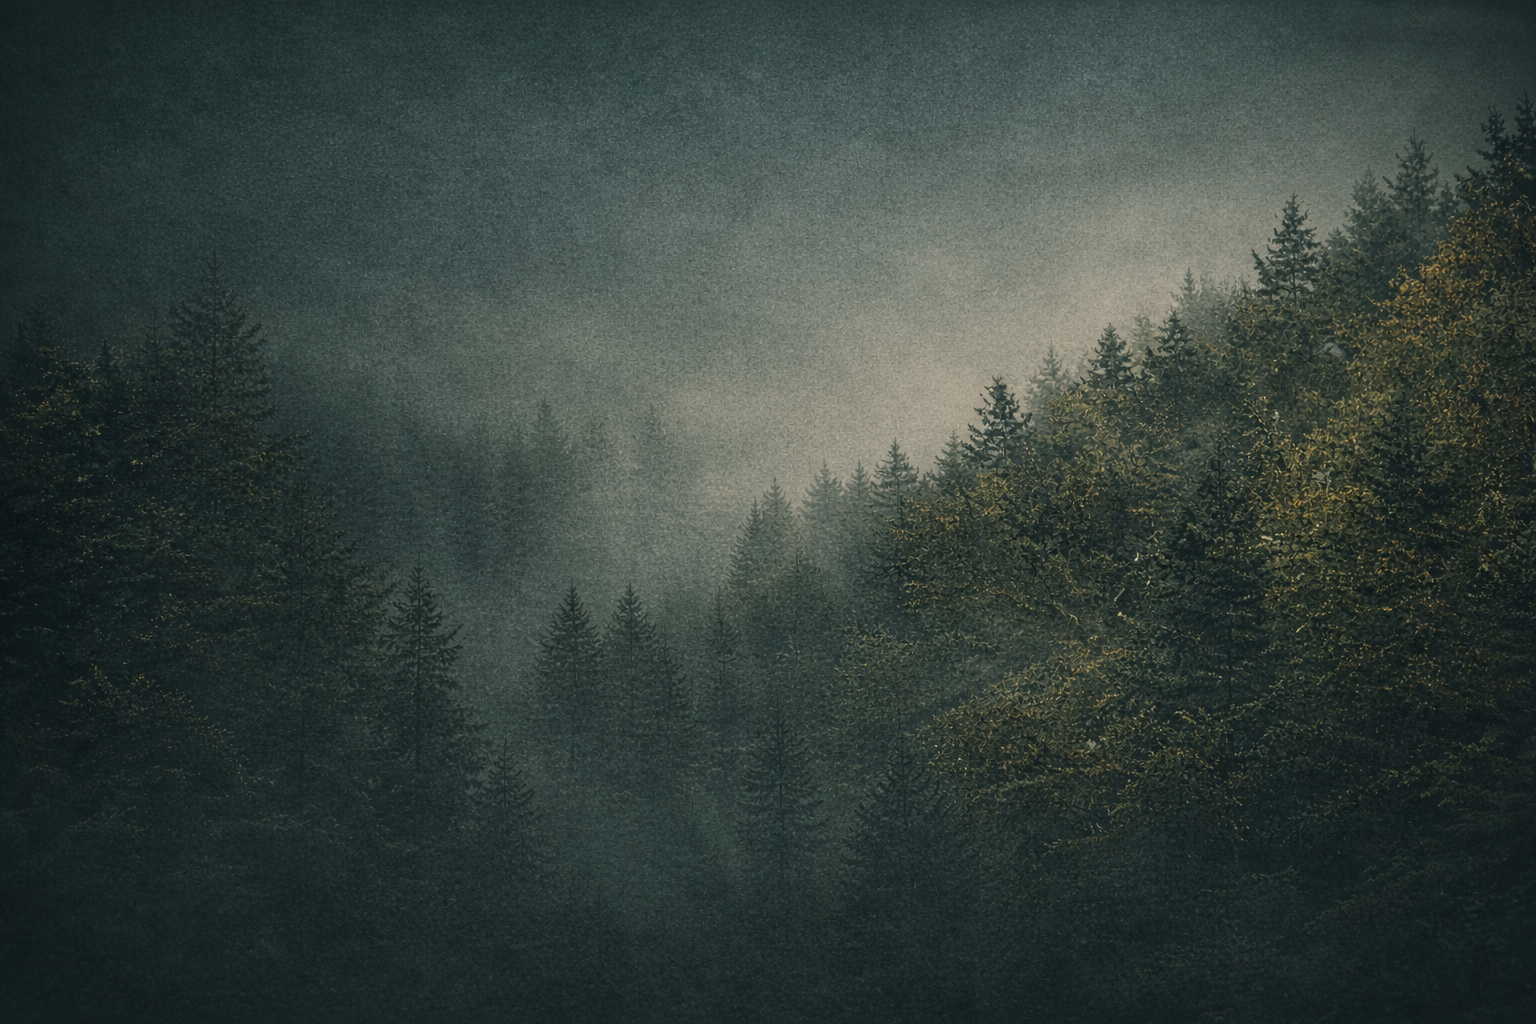
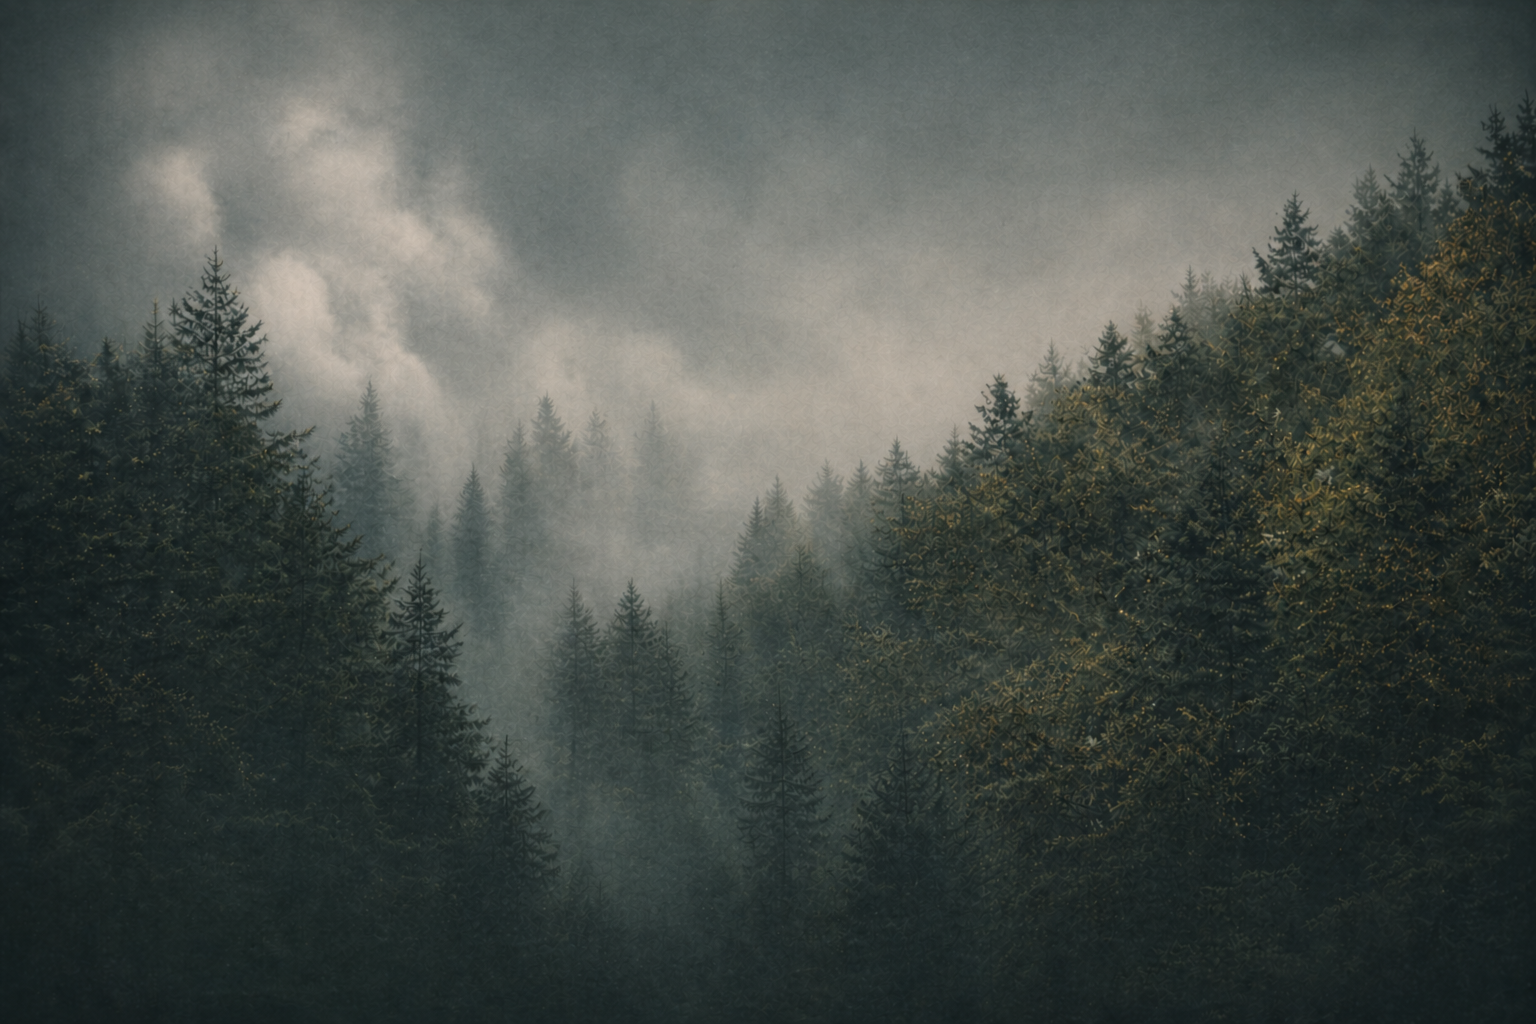
Update branding and page layout

diff --git a/app/components/user/register/Register.module.css b/app/components/user/register/Register.module.css
@@ -18,25 +18,27 @@
 .headerRow {
   width: 100%;
   max-width: 1180px;
-  padding: 28px 28px 0 116px;
+  padding: 28px 28px 0;
   display: flex;
   align-items: center;
   box-sizing: border-box;
   margin: 0 auto;
+  transform: translateX(calc(-2rem - 4px));
 }
 
 /* Centrerat kort */
 .main {
   display: grid;
-  place-items: center;
-  padding: 24px 0 34px;
+  justify-items: center;
+  align-items: start;
+  padding: calc(8px + 2rem) 0 34px;
 }
 
 .card {
   width: 100%;
   max-width: 450px;
   padding: 50px 50px;
-  border-radius: 18px;
+  border-radius: 5px;
   background: rgba(0, 0, 0, 0.28);
   border: 1px solid rgba(255, 255, 255, 0.12);
   backdrop-filter: blur(10px);
@@ -73,7 +75,7 @@
   width: 85%;
   height: 38px;
   padding: 0 52px 0 16px; 
-  border-radius: 10px;
+  border-radius: 5px;
   border: 1px solid rgba(255, 255, 255, 0.14);
   background: rgba(0, 0, 0, 0.22);
   color: rgba(255, 255, 255, 0.9);
@@ -118,7 +120,7 @@
   width: 36px;
   height: 36px;
   border: 0;
-  border-radius: 10px;
+  border-radius: 5px;
   background: transparent;
   color: rgba(255, 255, 255, 0.75);
   cursor: pointer;
@@ -130,7 +132,7 @@
 
 .error {
   padding: 10px 12px;
-  border-radius: 10px;
+  border-radius: 5px;
   background: rgba(255, 80, 80, 0.12);
   border: 1px solid rgba(255, 80, 80, 0.25);
   color: rgba(255, 210, 210, 0.95);
@@ -140,7 +142,7 @@
 .submit {
   margin-top: 10px;
   height: 54px;
-  border-radius: 10px;
+  border-radius: 5px;
   border: 1px solid rgba(170, 205, 170, 0.35);
   background: rgba(170, 205, 170, 0.22);
   color: rgba(255, 255, 255, 0.92);
@@ -198,6 +200,7 @@
     max-width: none;
     margin: 0;
     padding: 28px 28px 0;
+    transform: none;
   }
 
   .card {

diff --git a/app/components/user/login/Login.module.css b/app/components/user/login/Login.module.css
@@ -18,26 +18,27 @@
 .headerRow {
   width: 100%;
   max-width: 1180px;
-  padding: 28px 28px 0 116px;
+  padding: 28px 28px 0;
   display: flex;
   align-items: center;
   box-sizing: border-box;
   margin: 0 auto;
-  background-color: none;
+  transform: translateX(calc(-2rem - 4px));
 }
 
 /* Centrerat kort */
 .main {
   display: grid;
-  place-items: center;
-  padding: 24px 0 34px;
+  justify-items: center;
+  align-items: start;
+  padding: calc(8px + 2rem) 0 34px;
 }
 
 .card {
   width: 100%;
   max-width: 450px;
   padding: 50px 50px;
-  border-radius: 18px;
+  border-radius: 5px;
   background: rgba(0, 0, 0, 0.28);
   border: 1px solid rgba(255, 255, 255, 0.12);
   backdrop-filter: blur(10px);
@@ -74,7 +75,7 @@
   width: 85%;
   height: 38px;
   padding: 0 52px 0 16px;
-  border-radius: 10px;
+  border-radius: 5px;
   border: 1px solid rgba(255, 255, 255, 0.14);
   background: rgba(0, 0, 0, 0.22);
   color: rgba(255, 255, 255, 0.9);
@@ -119,7 +120,7 @@
   width: 36px;
   height: 36px;
   border: 0;
-  border-radius: 10px;
+  border-radius: 5px;
   background: transparent;
   color: rgba(255, 255, 255, 0.75);
   cursor: pointer;
@@ -131,7 +132,7 @@
 
 .error {
   padding: 10px 12px;
-  border-radius: 10px;
+  border-radius: 5px;
   background: rgba(255, 80, 80, 0.12);
   border: 1px solid rgba(255, 80, 80, 0.25);
   color: rgba(255, 210, 210, 0.95);
@@ -141,7 +142,7 @@
 .submit {
   margin-top: 10px;
   height: 54px;
-  border-radius: 10px;
+  border-radius: 5px;
 
   border: 1px solid rgba(170, 205, 170, 0.35);
   background: rgba(170, 205, 170, 0.22);
@@ -197,6 +198,7 @@
     max-width: none;
     margin: 0;
     padding: 28px 28px 0;
+    transform: none;
   }
 
   .card {

diff --git a/app/components/header/Header.module.css b/app/components/header/Header.module.css
@@ -1,9 +1,10 @@
 .header {
+  position: relative;
   display: grid;
   grid-template-columns: auto 1fr auto;
   align-items: center;
-  gap: 2rem;
-  padding: 1.1rem 2.1rem;
+  gap: 1.6rem;
+  padding: 0.55rem 2.1rem;
   background:
     linear-gradient(180deg, rgba(33, 59, 49, 0.8), rgba(42, 68, 57, 0.8)),
     url("/images/HeaderAndFooter.png") center/cover no-repeat;
@@ -15,10 +16,30 @@
   align-items: center;
 }
 
+.logoLink,
+.logo {
+  display: block;
+}
+
+.logoLink {
+  margin: 0.15rem 0;
+  padding: 1rem 0;
+}
+
 .actions {
   display: flex;
   align-items: center;
   gap: 2.2rem;
+}
+
+.header > .actions:last-child {
+  justify-self: end;
+}
+
+nav.actions {
+  position: absolute;
+  left: 50%;
+  transform: translateX(calc(-50% - 10rem));
 }
 
 .link {
@@ -66,8 +87,8 @@
   .header {
     grid-template-columns: 1fr;
     justify-items: start;
-    gap: 1rem;
-    padding: 1rem;
+    gap: 0.75rem;
+    padding: 0.75rem 1rem;
   }
 
   .actions {

diff --git a/app/components/header/Header.tsx b/app/components/header/Header.tsx
@@ -8,7 +8,11 @@ import { getApiUrl } from "../../lib/api";
 import LogoLink from "../brand/LogoLink";
 import styles from "./Header.module.css";
 
-function navClass(baseClass: string, activeClass: string, active: boolean) {
+function navClass(
+  baseClass: string,
+  activeClass: string,
+  active: boolean
+) {
   return active ? `${baseClass} ${activeClass}` : baseClass;
 }
 
@@ -37,7 +41,12 @@ export default function Header() {
   return (
     <header className={styles.header}>
       <div className={styles.brand}>
-        <LogoLink width={310} height={128} />
+        <LogoLink
+          width={175}
+          height={73}
+          className={styles.logoLink}
+          imageClassName={styles.logo}
+        />
       </div>
 
       <nav className={styles.actions} aria-label="Huvudnavigation">

diff --git a/app/components/brand/LogoLink.tsx b/app/components/brand/LogoLink.tsx
@@ -10,12 +10,14 @@ type LogoLinkProps = {
   width: number;
   height: number;
   className?: string;
+  imageClassName?: string;
 };
 
 export default function LogoLink({
   width,
   height,
   className,
+  imageClassName,
 }: LogoLinkProps) {
   const [href, setHref] = useState("/");
 
@@ -48,11 +50,12 @@ export default function LogoLink({
   return (
     <Link href={href} aria-label="Trainly hem" className={className}>
       <Image
-        src="/images/DogTrainlyLogoTransparent.png"
+        src="/images/DogTrainlyLogo.png"
         alt="Trainly"
         width={width}
         height={height}
         priority
+        className={imageClassName}
       />
     </Link>
   );

diff --git a/app/components/hero/Hero.module.css b/app/components/hero/Hero.module.css
@@ -19,7 +19,7 @@
 .brand {
   display: flex;
   align-items: center;
-  margin-left: -98px;
+  margin-left: 0;
 }
 
 .topActions {
@@ -40,7 +40,7 @@
 
 .topButton {
   padding: 10px 16px;
-  border-radius: 8px;
+  border-radius: 5px;
 
   font-size: 15px;
   font-weight: 500;
@@ -103,7 +103,7 @@
 
 .primary {
   padding: 12px 20px;
-  border-radius: 10px;
+  border-radius: 5px;
 
   font-size: 15px;
   font-weight: 600;
@@ -122,7 +122,7 @@
 
 .ghost {
   padding: 12px 20px;
-  border-radius: 10px;
+  border-radius: 5px;
   font-size: 15px;
   font-weight: 500;
   color: rgba(255, 255, 255, 0.9);

diff --git a/app/globals.css b/app/globals.css
@@ -1,4 +1,4 @@
-@import url("https://fonts.googleapis.com/css2?family=National+Park:wght@200..800&display=swap");
+@import url("https://fonts.googleapis.com/css2?family=Manrope:wght@200..800&display=swap");
 
 :root {
   --background: #ffffff;
@@ -22,5 +22,5 @@ body {
 body {
   background: var(--background);
   color: var(--foreground);
-  font-family: "National Park", Arial, Helvetica, sans-serif;
+  font-family: "Manrope";
 }

diff --git a/app/components/user/register/Register.tsx b/app/components/user/register/Register.tsx
@@ -71,7 +71,7 @@ export default function Register() {
     <div className={styles.page}>
       <div className={styles.shell}>
         <div className={styles.headerRow}>
-          <LogoLink width={360} height={150} />
+          <LogoLink width={180} height={75} />
         </div>
 
         <main className={styles.main}>

diff --git a/app/components/hero/Hero.tsx b/app/components/hero/Hero.tsx
@@ -18,7 +18,7 @@ export default function Hero() {
     <main className={styles.main}>
       <div className={styles.topRow}>
         <div className={styles.brand}>
-          <LogoLink width={360} height={150} />
+          <LogoLink width={180} height={75} />
         </div>
 
         <div className={styles.topActions}>

diff --git a/app/components/user/login/Login.tsx b/app/components/user/login/Login.tsx
@@ -66,7 +66,7 @@ export default function Login() {
     <div className={styles.page}>
       <div className={styles.shell}>
         <div className={styles.headerRow}>
-          <LogoLink width={360} height={150} />
+          <LogoLink width={180} height={75} />
         </div>
 
         <main className={styles.main}>

diff --git a/app/components/footer/Footer.tsx b/app/components/footer/Footer.tsx
@@ -7,7 +7,6 @@ export default function Footer() {
   return (
     <footer className={styles.footer}>
       <div className={styles.left}>
-        <span className={styles.brand}>Trainly</span>
         <span className={styles.copy}>© 2026 Trainly</span>
       </div>
 

diff --git a/app/components/landing/LandingHome.module.css b/app/components/landing/LandingHome.module.css
@@ -76,7 +76,7 @@
   align-items: center;
   gap: 0.5rem;
   border: 1px solid rgba(255, 255, 255, 0.18);
-  border-radius: 6px;
+  border-radius: 5px;
   padding: 0.85rem 1.35rem;
   background: rgba(42, 68, 57, 0.92);
   color: #f7f3ea;
